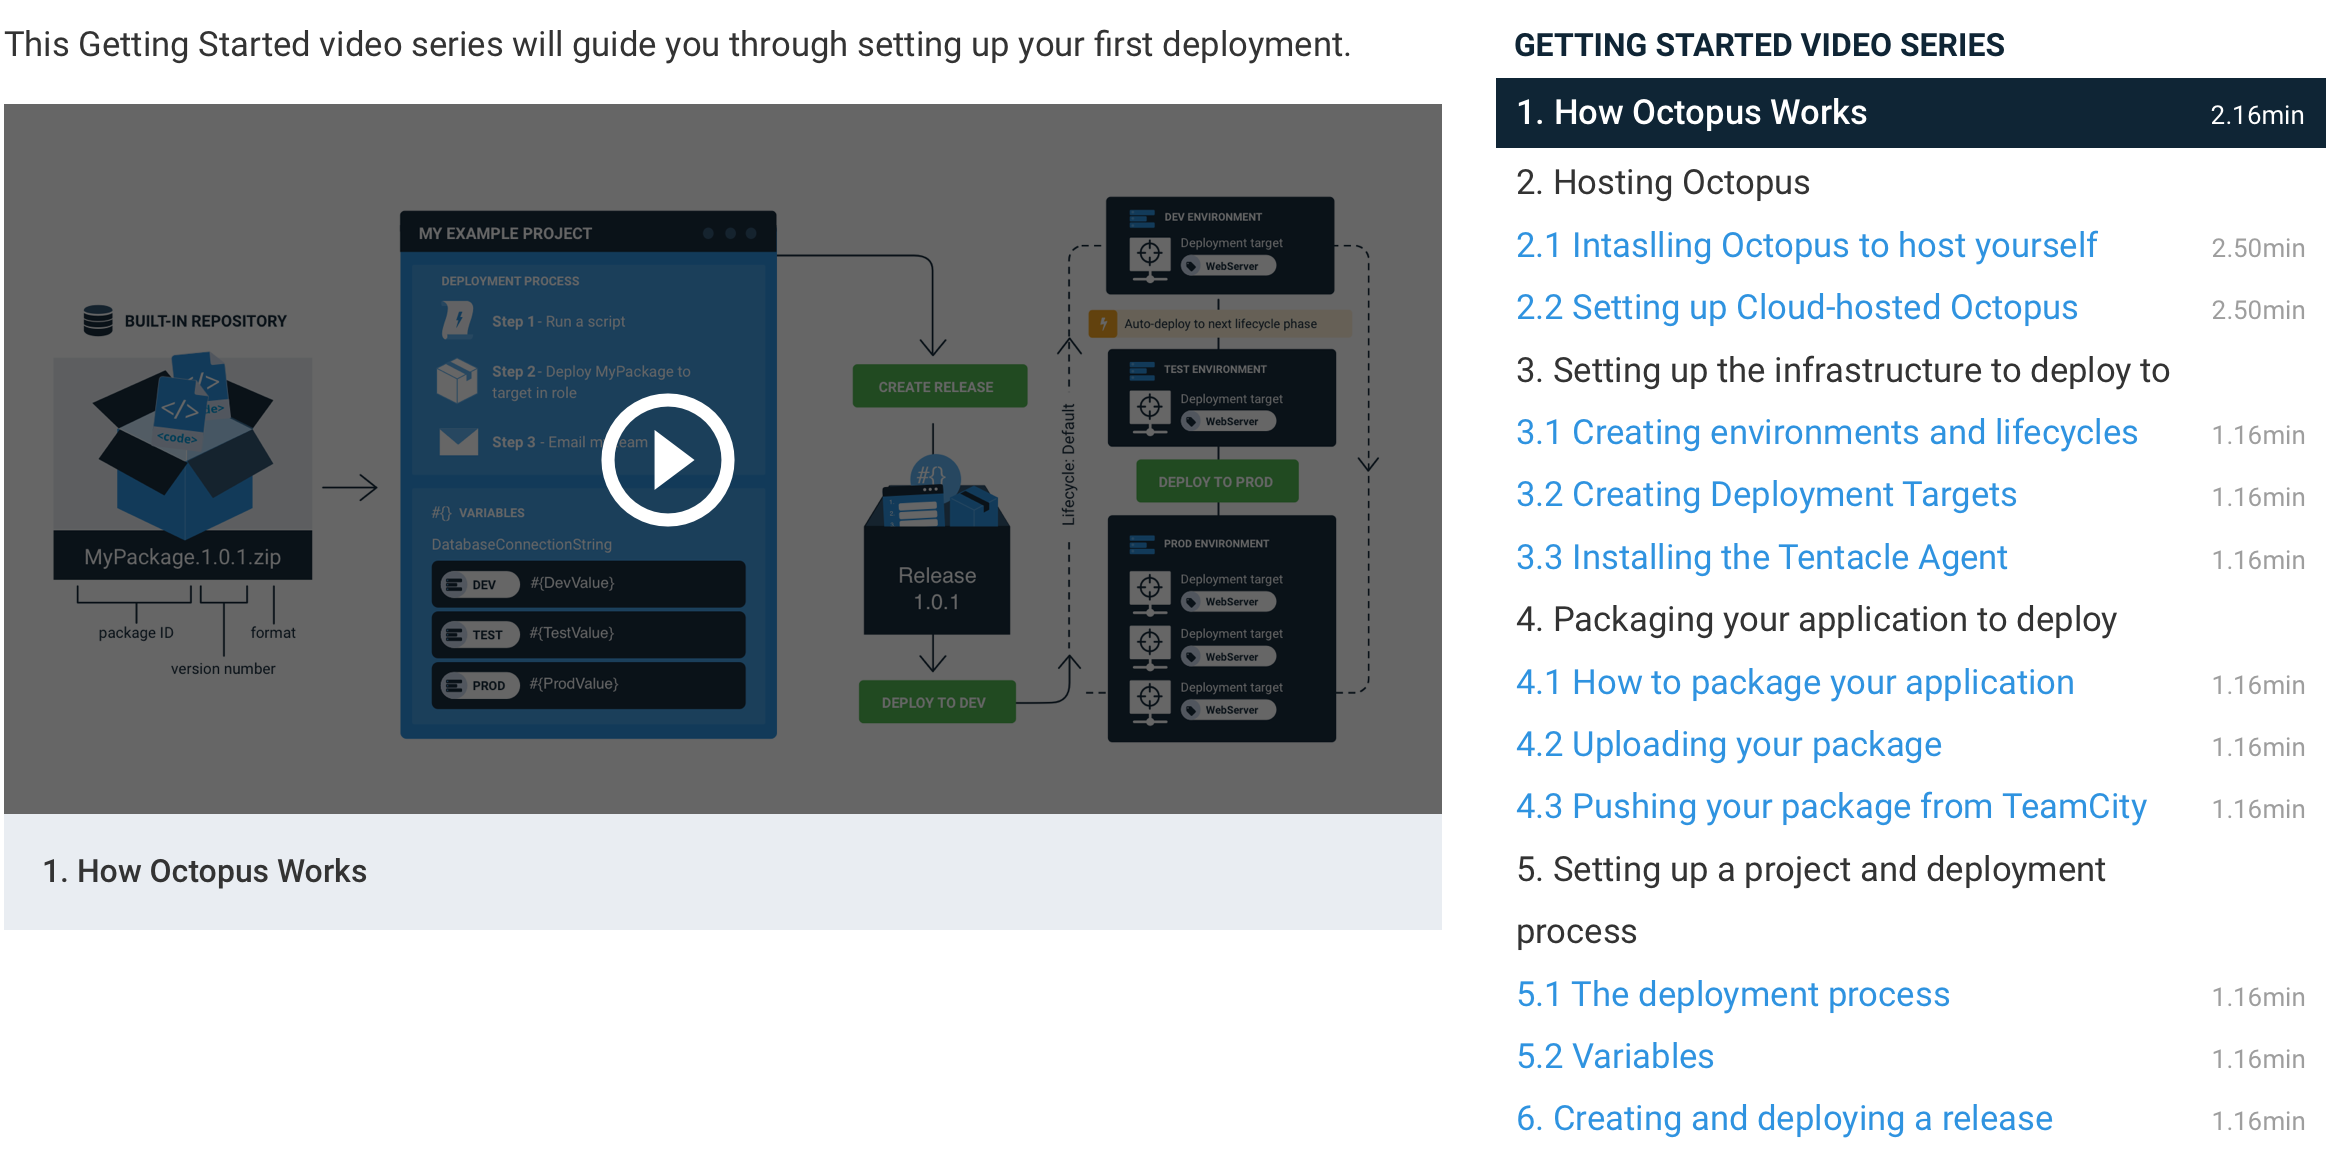
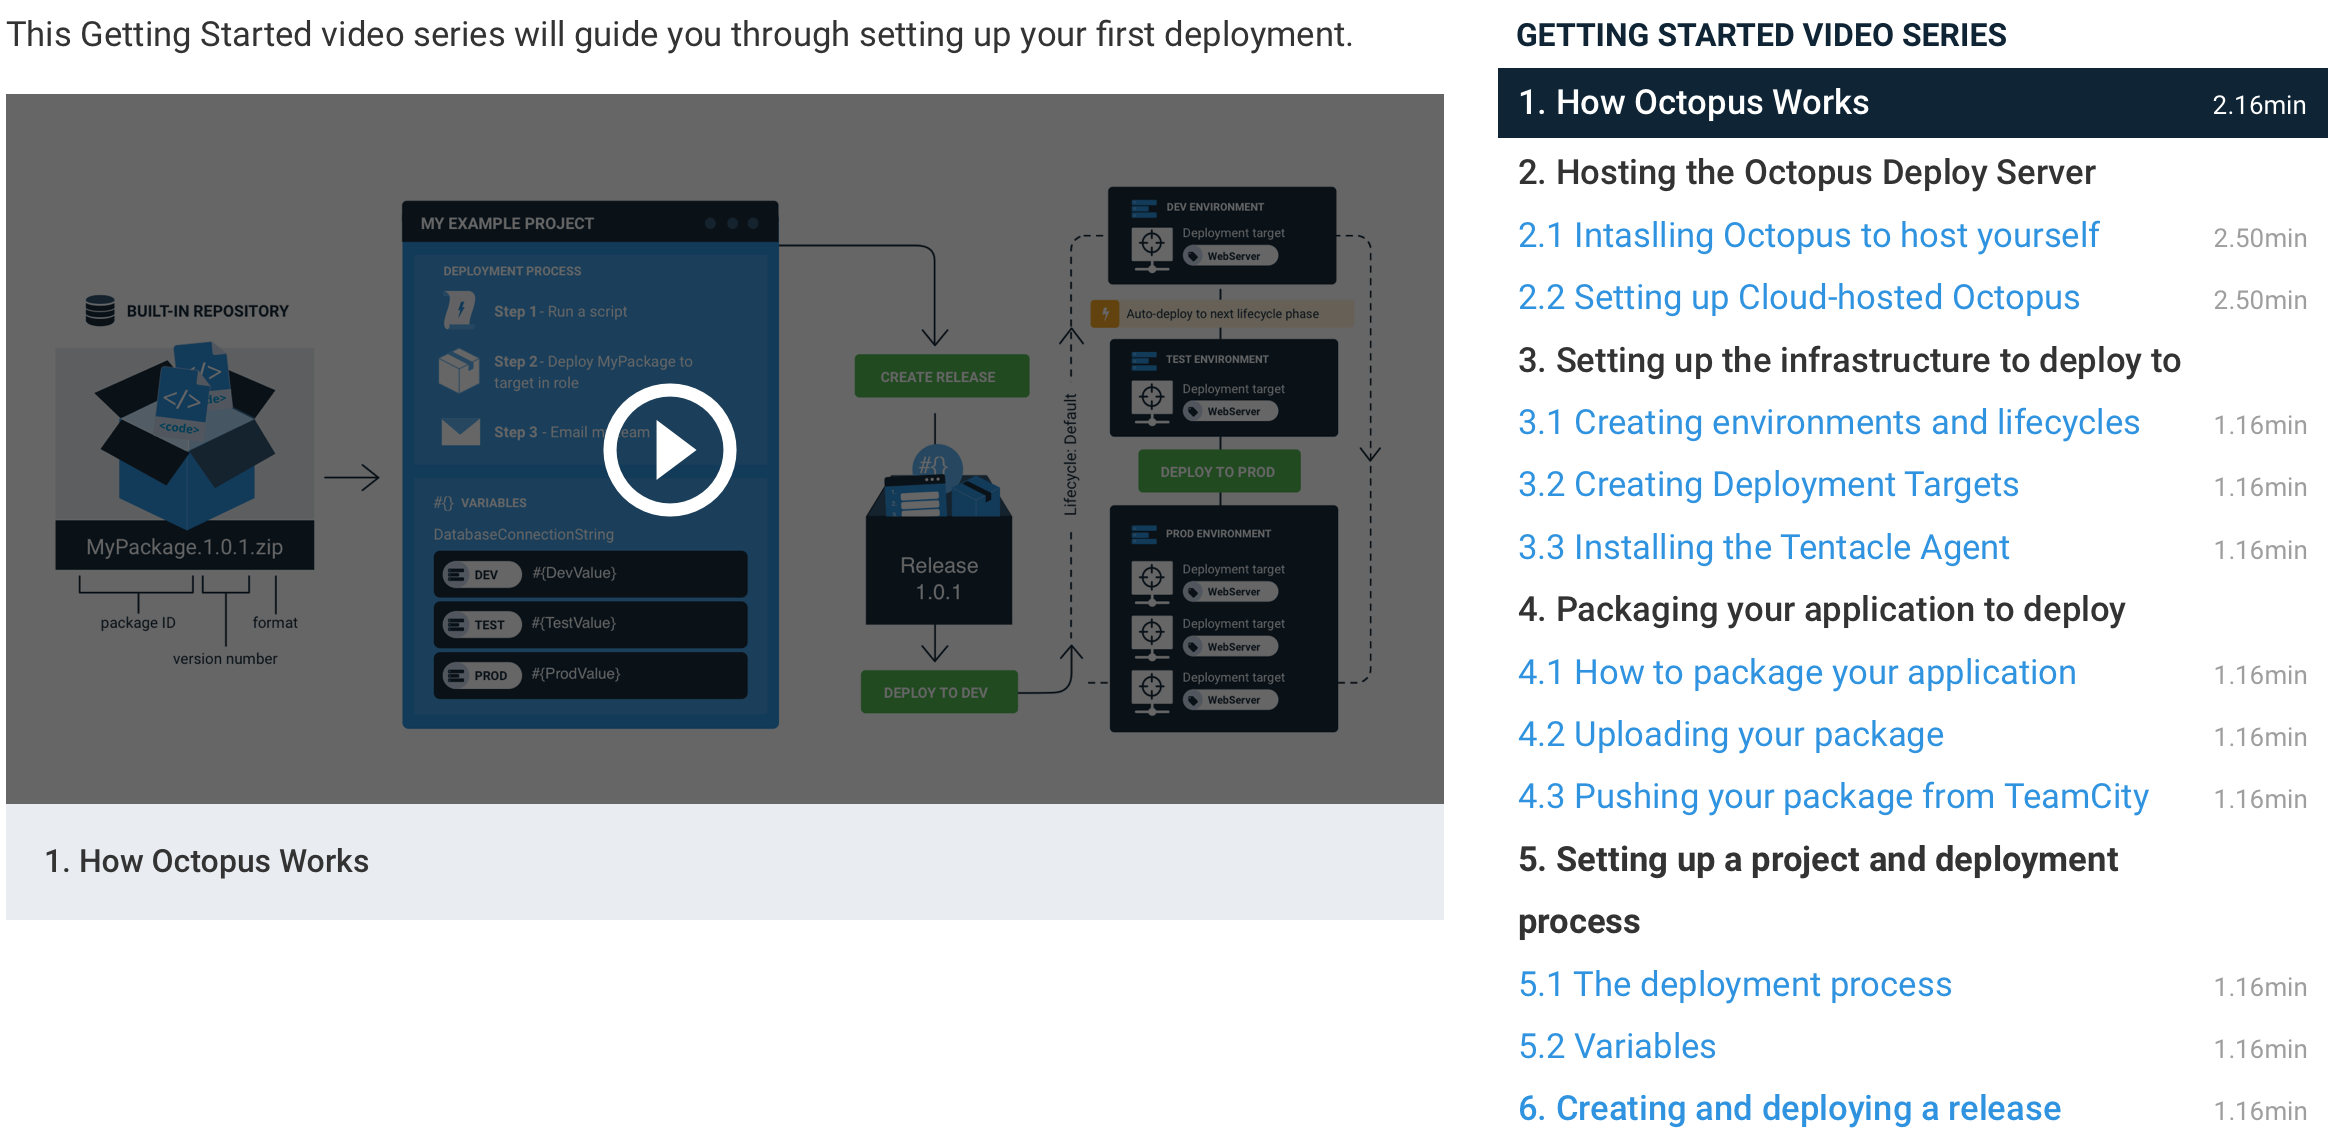
Small updates

diff --git a/docs/getting-started.md b/docs/getting-started.md
@@ -18,7 +18,9 @@ or
 
 As an Octopus user, you define the process for deploying your software. You specify the environments the applications are deployed to and who on your team can deploy to which environments. For instance, you might want QA to deploy to test environments, but not to production. Taking this approach means that even if different members of the team trigger deployments, the deployment process remains consistent. Once releases have been created, they can be deployed as many times as you need.
 
-#### Hosting Octopus
+#### Hosting the Octopus Deploy Server
+
+You can install your own [self-hosted](/docs/getting-started.md#self-hosted-octopus) instance of the Octopus Deploy Server or use [Octopus Cloud](/docs/getting-started.md#octopus-cloud).
 
 ##### Self-Hosted Octopus
 
@@ -31,10 +33,6 @@ The [installation documentation](/docs/installation/index.md) provides instructi
 **Octopus Cloud** is the hosted version of Octopus Deploy. We designed Octopus Cloud and self-hosted Octopus to provide the same functionality; however, there are some minor differences, for instance, with Octopus Cloud, we're [responsible](/docs/administration/security/index.md#responsibility) for taking backups, upgrading the service, and maintaining and monitoring the underlying systems.
 
 Learn more about [Octopus Cloud](/docs/octopus-cloud/index.md).
-
-##### Octopus Deploy Server
-
-You can install your own [self-hosted](/docs/getting-started.md#self-hosted-octopus) instance of the Octopus Deploy Server or use [Octopus Cloud](/docs/getting-started.md#octopus-cloud).
 
 ##### The Octopus Web Portal
 
